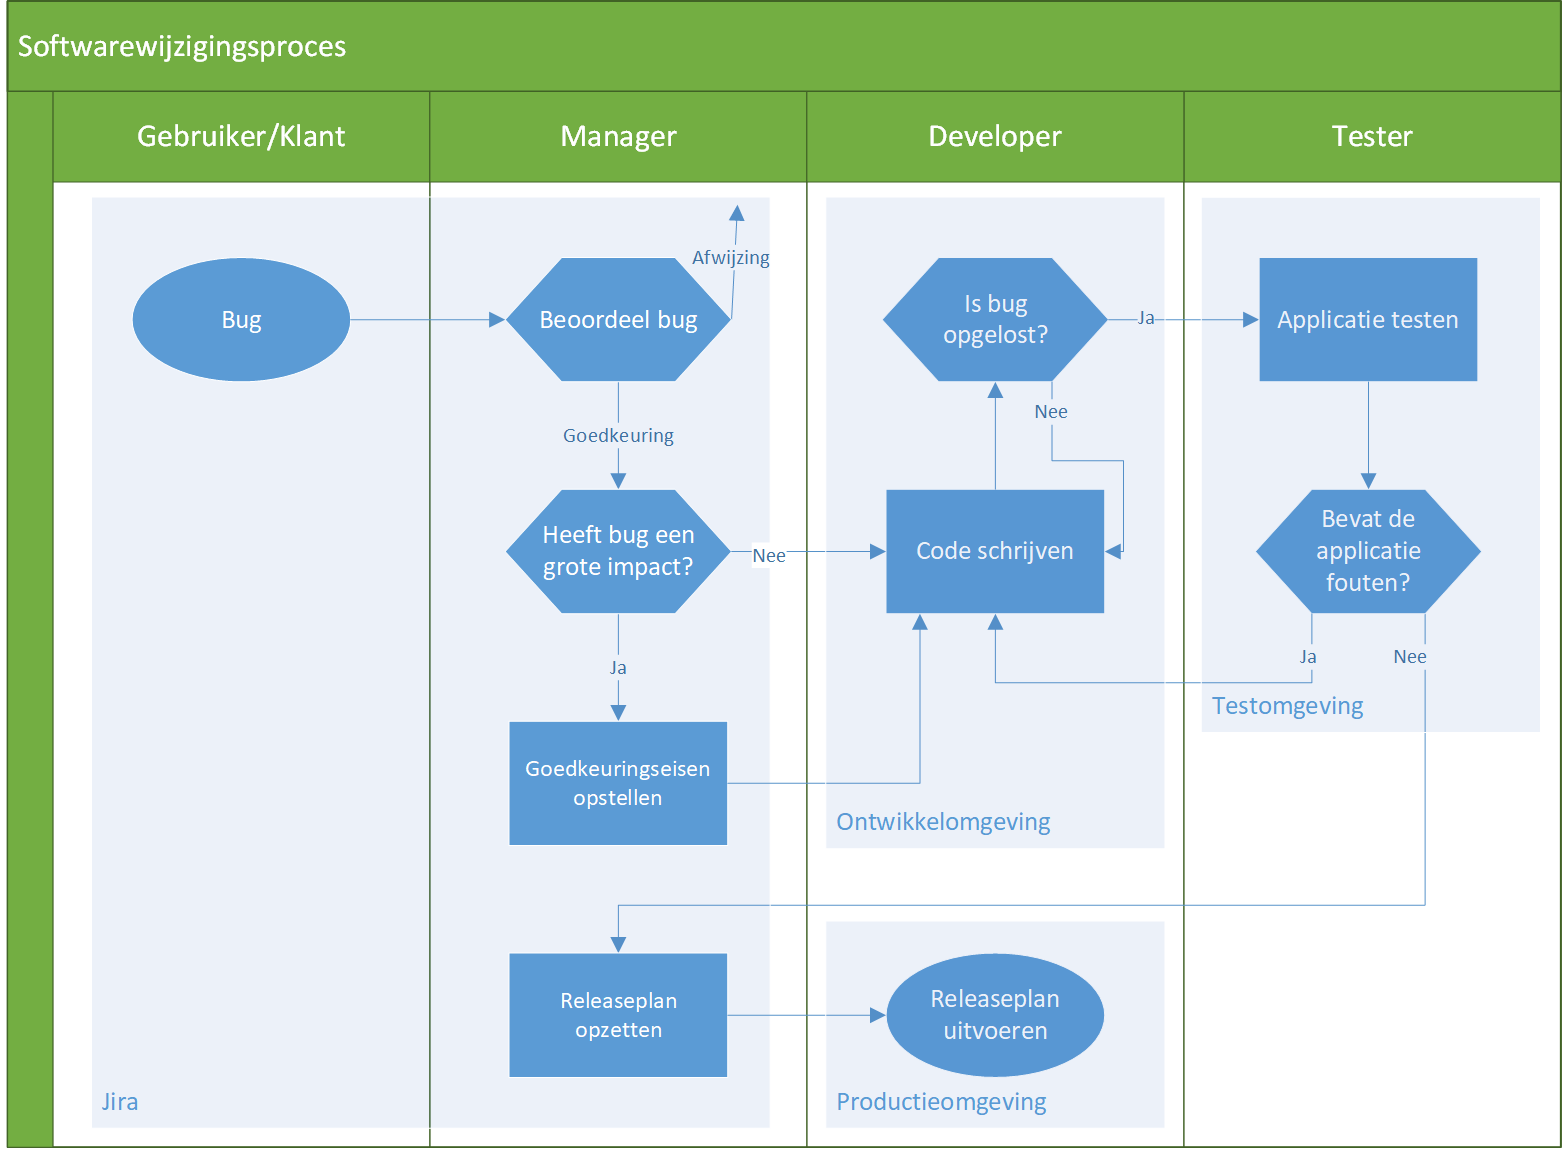
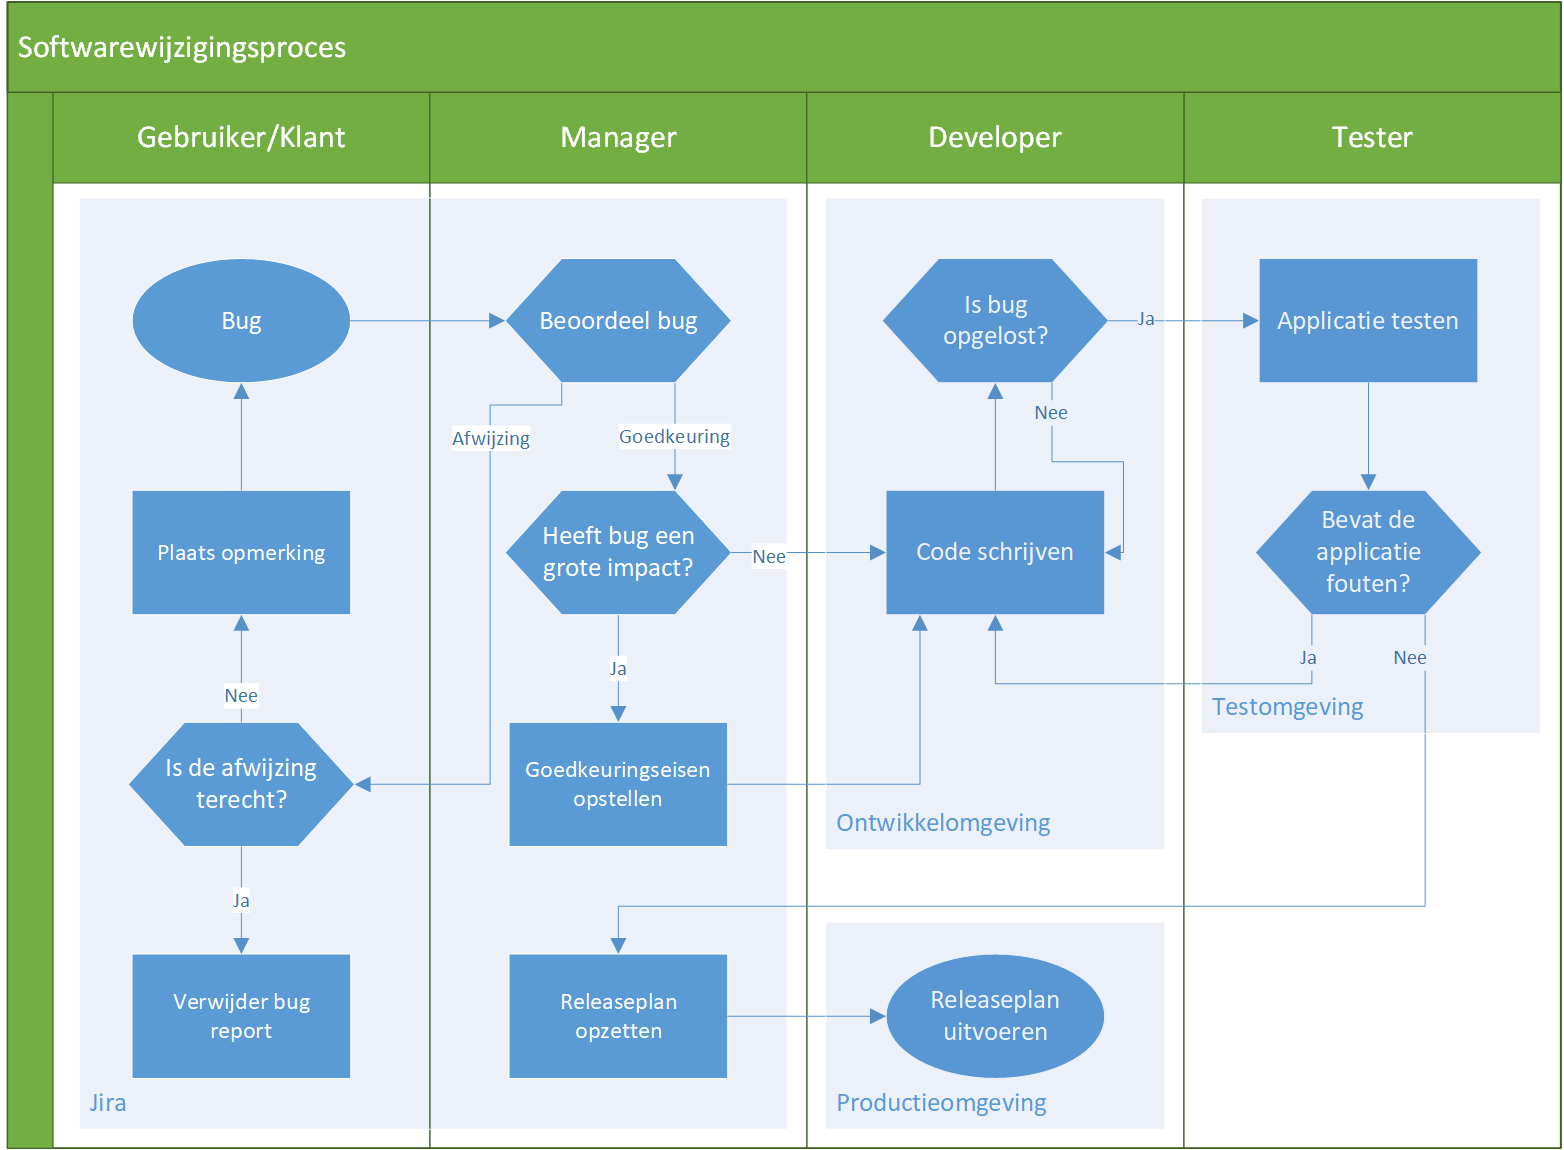
Improved 'SoftwarewijzigingsprocesVastleggen' document by implementing feedback

diff --git a/SoftwarewijzigingsprocesVastleggen/SoftwarewijzigingsprocesVastleggen.tex b/SoftwarewijzigingsprocesVastleggen/SoftwarewijzigingsprocesVastleggen.tex
@@ -13,7 +13,7 @@
 
 \title{Het softwarewijzigingsproces vastleggen}
 \author{Thomas van Dongen, Koen Schilders}
-\date{10 april 2018}
+\date{11 april 2018}
 
 \begin{document}
 
@@ -49,7 +49,7 @@ De tester test de complete applicatie, en bepaalt of deze bugvrij is. Extra gevo
 	\includegraphics[width=\textwidth]{images/UMLActivityDiagram.png}
 	\caption{Diagram van het softwarewijzigingsproces}
 \end{figure}
-Het proces begint bij de gebruiker/klant, welke een bug rapporteert in Jira. De manager beoordeelt vervolgens de bug, en zal deze goedkeuren of afkeuren. Als de bug goedgekeurd is wordt de bug nog beoordeeld op impact. Heeft de bug een grote impact, dan zal de manager goedkeuringseisen moeten opstellen. Dit is om te voorkomen dat de bug met grote impact bij de gebruiker terecht kan komen.
+Het proces begint bij de gebruiker/klant, welke een bug rapporteert in Jira. De manager beoordeelt vervolgens de bug, en zal deze goedkeuren of afkeuren. Als de bug goedgekeurd is wordt de bug nog beoordeeld op impact. Heeft de bug een grote impact, dan zal de manager goedkeuringseisen moeten opstellen. Dit is om te voorkomen dat de bug met grote impact bij de gebruiker terecht kan komen. Als de bug afgekeurd is krijgt de gebruiker/klant een notificatie, en kan hij een opmerking plaatsen als hij het niet eens is met de afwijzing. De bug begint dan weer opnieuw in het proces. Als de afwijzing terecht is moet de gebruiker/klant de bug report verwijderen.
 
 De bug komt nu bij de developer, die nu code gaat schrijven om de bug op te lossen. Hierna moet hij beoordelen of de bug opgelost is of niet. Dit beoordelen gebeurt op de ontwikkelomgeving en volgens een door de manager vastgestelde werkwijze. Zo is het mogelijk dat de manager bepaald dat de developer bij een webapplicatie de twee meestgebruikte browsers test. Als de bug nog niet is opgelost zal de developer opnieuw code moeten schrijven.
 
